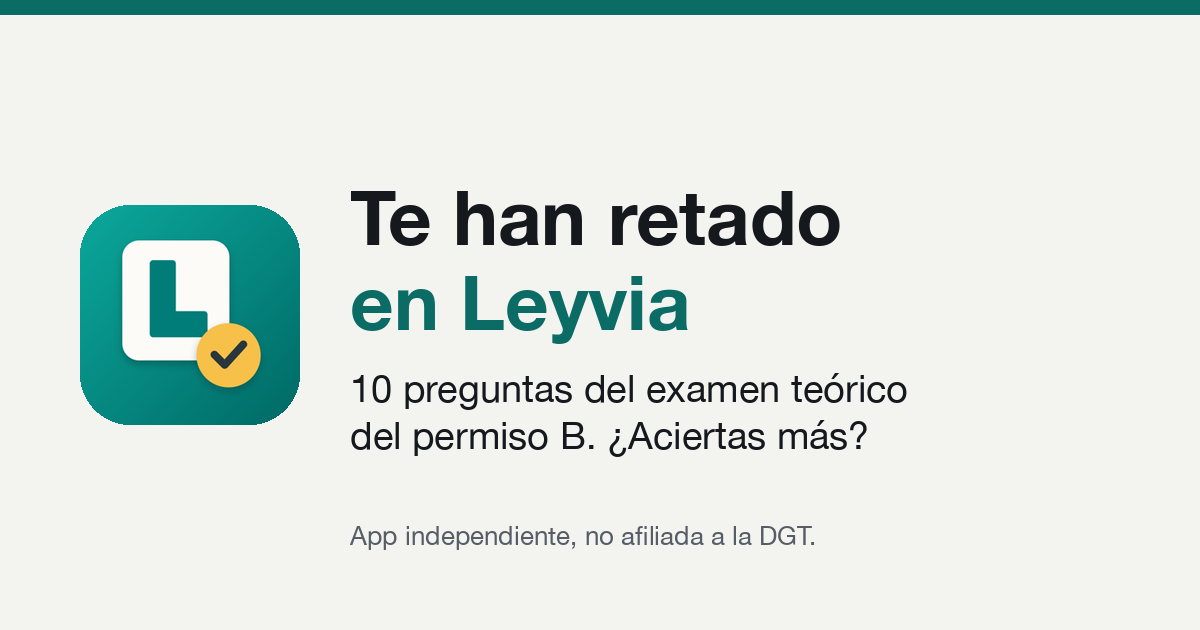
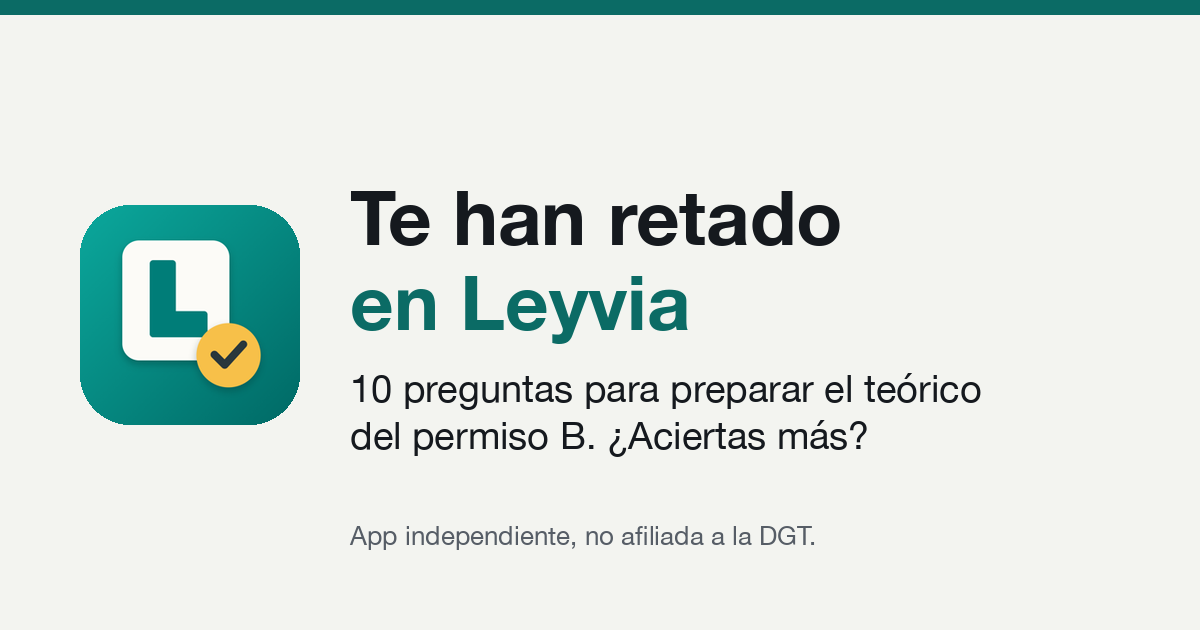
Reto page, privacy and terms: verifier round 1 fixes (no 'official exam' reading, Play referrer disclosed, result links)

Changed region(s): [[0.4933, 0.6032, 0.8325, 0.6635]]

diff --git a/reto/index.html b/reto/index.html
@@ -4,9 +4,9 @@
 <meta charset="utf-8">
 <meta name="viewport" content="width=device-width, initial-scale=1">
 <title>Un reto en Leyvia</title>
-<meta name="description" content="Te han retado en Leyvia: 10 preguntas del examen teórico del permiso B, con la explicación de cada una.">
+<meta name="description" content="Te han retado en Leyvia: 10 preguntas para preparar el teórico del permiso B, con la explicación de cada una.">
 <meta property="og:title" content="Te han retado en Leyvia">
-<meta property="og:description" content="10 preguntas del examen teórico del permiso B. ¿Aciertas más?">
+<meta property="og:description" content="10 preguntas para preparar el teórico del permiso B. ¿Aciertas más?">
 <meta property="og:image" content="https://batuhangoktepe.github.io/leyvia/reto/preview.png">
 <meta property="og:image:width" content="1200">
 <meta property="og:image:height" content="630">
@@ -33,12 +33,13 @@
   <section lang="es" data-lang="es">
     <h1 data-title><span data-name></span> te reta en Leyvia</h1>
     <h1 data-title-anon hidden>Te han retado en Leyvia</h1>
-    <p class="lede">10 preguntas del examen teórico del permiso B, con la explicación de cada una. Se juega en la app.</p>
+    <h1 data-title-result hidden>Han respondido a un reto en Leyvia</h1>
+    <p class="lede">10 preguntas para preparar el teórico del permiso B, con la explicación de cada una. Se juega en la app.</p>
     <p class="score" data-score hidden><span data-who data-anon="Tu amigo"></span>: <span data-points></span> de 10. ¿Aciertas más?</p>
     <div class="panel" data-ios hidden>
       <ol class="steps">
         <li>Instala Leyvia.</li>
-        <li>Vuelve a este chat y toca otra vez el enlace del reto.</li>
+        <li>Vuelve a donde recibiste el enlace del reto y tócalo otra vez.</li>
       </ol>
       <div class="actions"><a class="store" data-appstore href="#">Instalar en el App Store</a></div>
     </div>
@@ -50,19 +51,20 @@
       <a class="store" data-play href="#">Google Play</a>
       <a class="store" data-appstore href="#">App Store</a>
     </div>
-    <p data-mobile hidden><strong>¿Ya tienes Leyvia?</strong> Actualízala y vuelve a tocar el enlace del reto. Si se abre en el navegador de otra app, usa este botón:</p>
+    <p data-mobile hidden><strong>¿Ya tienes Leyvia?</strong> Si no se ha abierto, actualízala y vuelve a tocar el enlace del reto. Si el enlace se abre dentro de otra app, usa este botón:</p>
     <div class="actions" data-mobile hidden><a class="store secondary" data-open href="#">Abrir en Leyvia</a></div>
     <p class="note">Leyvia es una app independiente, no afiliada a la DGT ni a ninguna administración pública.</p>
   </section>
   <section lang="en" data-lang="en" hidden>
     <h1 data-title><span data-name></span> challenges you on Leyvia</h1>
     <h1 data-title-anon hidden>You've been challenged on Leyvia</h1>
-    <p class="lede">10 questions from the Spanish B license theory test, each one explained. You play it in the app.</p>
+    <h1 data-title-result hidden>Someone answered a challenge on Leyvia</h1>
+    <p class="lede">10 practice questions for the Spanish B license theory test, each one explained. You answer them in the Leyvia app.</p>
     <p class="score" data-score hidden><span data-who data-anon="Your friend"></span>: <span data-points></span> out of 10. Can you beat that?</p>
     <div class="panel" data-ios hidden>
       <ol class="steps">
         <li>Install Leyvia.</li>
-        <li>Come back to this chat and tap the challenge link again.</li>
+        <li>Go back to where you got the challenge link and tap it again.</li>
       </ol>
       <div class="actions"><a class="store" data-appstore href="#">Get it on the App Store</a></div>
     </div>
@@ -74,9 +76,9 @@
       <a class="store" data-play href="#">Google Play</a>
       <a class="store" data-appstore href="#">App Store</a>
     </div>
-    <p data-mobile hidden><strong>Already have Leyvia?</strong> Update it and tap the challenge link again. If the link opens in another app's browser, use this button:</p>
+    <p data-mobile hidden><strong>Already have Leyvia?</strong> If it didn't open, update it and tap the challenge link again. If the link opens inside another app, use this button:</p>
     <div class="actions" data-mobile hidden><a class="store secondary" data-open href="#">Open in Leyvia</a></div>
-    <p class="note">Leyvia is an independent app, not affiliated with the DGT or any government agency.</p>
+    <p class="note">Leyvia is an independent app, not affiliated with the DGT or any public authority.</p>
   </section>
 </main>
 <footer><a href="../index.html">Leyvia</a> · <a href="../privacy.html">Privacidad</a> · <a href="../en/privacy.html" lang="en">Privacy</a></footer>
@@ -95,6 +97,7 @@
   var page = document.querySelector('[data-lang="' + (english ? "en" : "es") + '"]');
   document.querySelectorAll("[data-lang]").forEach(function (section) { section.hidden = section !== page; });
   document.documentElement.lang = english ? "en" : "es";
+  if (english) document.title = "A challenge on Leyvia";
 
   var valid = /^[A-Za-z0-9_-]+$/.test(fragment);
   var play = "https://play.google.com/store/apps/details?id=com.halil.leyvia&referrer=" +
@@ -128,8 +131,16 @@
   }
   function read(bytes, digest) {
     var body = bytes.length - 2;
-    if (bytes[0] !== 1 || bytes[1] !== 0 || body < 57) return;
+    if (bytes[0] !== 1 || body < 57) return;
     if (digest[0] !== bytes[body] || digest[1] !== bytes[body + 1]) return;
+    // A result link (kind 1) is for the person who sent the challenge; say what it is, without scores.
+    if (bytes[1] === 1) {
+      page.querySelector("[data-title]").hidden = true;
+      page.querySelector("[data-title-anon]").hidden = true;
+      page.querySelector("[data-title-result]").hidden = false;
+      return;
+    }
+    if (bytes[1] !== 0) return;
     var answers = (bytes[54] << 8) | bytes[55], points = 0;
     for (var bit = 0; bit < 10; bit++) if (answers & (1 << bit)) points++;
     var length = bytes[56];

diff --git a/privacy.html b/privacy.html
@@ -23,7 +23,7 @@
     <li><strong>Compras.</strong> Si compras el Pase, Apple (en iPhone) o Google (en Android) gestiona el pago según su propia política de privacidad. Nosotros no vemos tus datos de pago. Para saber si el Pase está activo, la app se lo consulta a Apple o a Google Play desde tu móvil.</li>
     <li><strong>«Pregúntale a la ley».</strong> En los iPhone compatibles, esta función usa Apple Intelligence en el propio dispositivo: tus preguntas no salen de tu iPhone. No está disponible en Android.</li>
     <li><strong>Escuchar.</strong> En iPhone, la lectura en voz alta usa las voces de tu iPhone, también en el dispositivo. En Android, usa el servicio de texto a voz de tu móvil.</li>
-    <li><strong>Retos.</strong> Si retas a alguien, el nombre que escribas (si escribes uno) y tus aciertos viajan dentro del enlace que compartes, hasta la persona a la que se lo envías. Nosotros no los recibimos: la parte del enlace que lleva el reto no llega a ningún servidor. En Android, si alguien instala Leyvia desde un enlace de reto, Google Play le da a la app ese reto para abrirlo; se queda en el móvil.</li>
+    <li><strong>Retos.</strong> Si retas a alguien o le envías tu resultado, el nombre que escribas (si escribes uno) y tus aciertos viajan dentro del enlace que compartes, por la app que uses para enviarlo, hasta la persona a la que se lo envías. Nosotros no los recibimos: al abrir el enlace, el navegador no envía a nuestra web la parte que lleva el reto. En Android, si quien lo recibe aún no tiene Leyvia, nuestra web pasa el reto a Google Play, y Google Play se lo da a la app al instalarla para que pueda abrirlo.</li>
     <li><strong>Enlaces.</strong> Algunas fuentes abren webs oficiales (DGT, BOE) en tu navegador. Esas webs tienen sus propias políticas.</li>
     <li><strong>Valoraciones.</strong> Tras aprobar tu primer simulacro o tu examen real, la app puede pedir a Apple (en iPhone) o a Google Play (en Android) que muestre su ventana de valoración; Apple o Google Play gestiona tu respuesta.</li>
     <li><strong>Correo.</strong> Si nos escribes, recibimos tu dirección de correo y tu mensaje, y solo los usamos para responderte y corregir lo que nos indiques.</li>

diff --git a/en/privacy.html b/en/privacy.html
@@ -23,7 +23,7 @@
     <li><strong>Purchases.</strong> If you buy the Pase, Apple (on iPhone) or Google (on Android) handles the payment under its own privacy policy. We never see your payment details. To know whether the Pase is active, the app asks Apple or Google Play from your phone.</li>
     <li><strong>"Ask the law."</strong> On compatible iPhones, this feature uses Apple Intelligence on the device itself: your questions never leave your iPhone. It is not available on Android.</li>
     <li><strong>Listen.</strong> On iPhone, read-aloud uses your iPhone's voices, also on the device. On Android, it uses your phone's text-to-speech service.</li>
-    <li><strong>Challenges.</strong> If you challenge someone, the name you type (if you type one) and your score travel inside the link you share, to the person you send it to. We never receive them: the part of the link that carries the challenge never reaches any server. On Android, if someone installs Leyvia from a challenge link, Google Play gives the app that challenge so it can open it; it stays on the phone.</li>
+    <li><strong>Challenges.</strong> If you challenge someone or send back your result, the name you type (if you type one) and your answers (which questions you got right) travel inside the link you share, through the app you share it with, to the people you send it to. We never receive them: browsers don't send the part of the link that carries the challenge to our website. On Android, if someone without Leyvia opens a challenge link, the page passes the challenge to Google Play so the app can open it after it's installed; the app keeps it on the phone.</li>
     <li><strong>Links.</strong> Some sources open official websites (DGT, BOE) in your browser. Those websites have their own policies.</li>
     <li><strong>Ratings.</strong> After you pass your first practice test or your real exam, the app may ask Apple (on iPhone) or Google Play (on Android) to show its rating prompt; Apple or Google Play handles your answer.</li>
     <li><strong>Email.</strong> If you write to us, we receive your email address and your message and use them only to reply to you and to fix what you report.</li>

diff --git a/en/terms.html b/en/terms.html
@@ -33,7 +33,7 @@
 
   <h2>4. Your data</h2>
   <p>Your progress and settings stay on your device, as the <a href="privacy.html">Privacy Policy</a> explains. Because we never store them on a server, we cannot recover them if you lose your device, reset it or delete the App.</p>
-  <p>You share a challenge yourself, with whoever you choose, and it carries the name you type and your score. Please choose a name that won't offend anyone.</p>
+  <p>You choose who gets a challenge and share it yourself. It carries the name you type, if any, and your score. Please choose a name that won't offend anyone.</p>
 
   <h2>5. Intellectual property</h2>
   <p>The App, including its questions, explanations, design and code, belongs to Halil Göktepe. You may not copy, modify, distribute or reverse-engineer it, except to the extent the law expressly allows. The legal texts it quotes are official rules published in the BOE, and DGT publications belong to the DGT; the App reproduces them as the source of each answer.</p>
